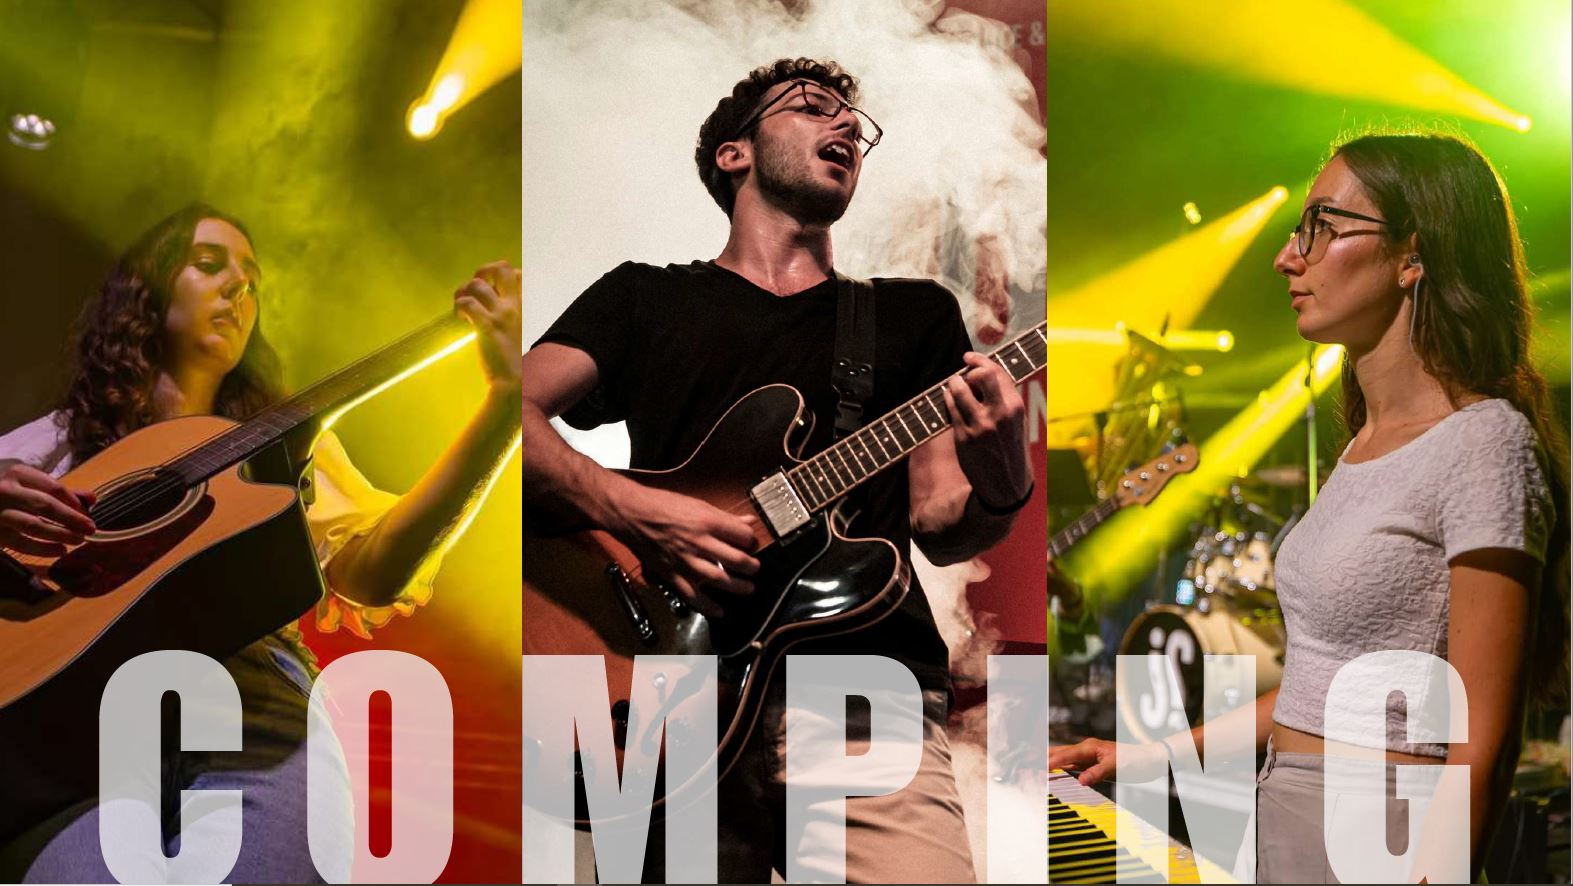
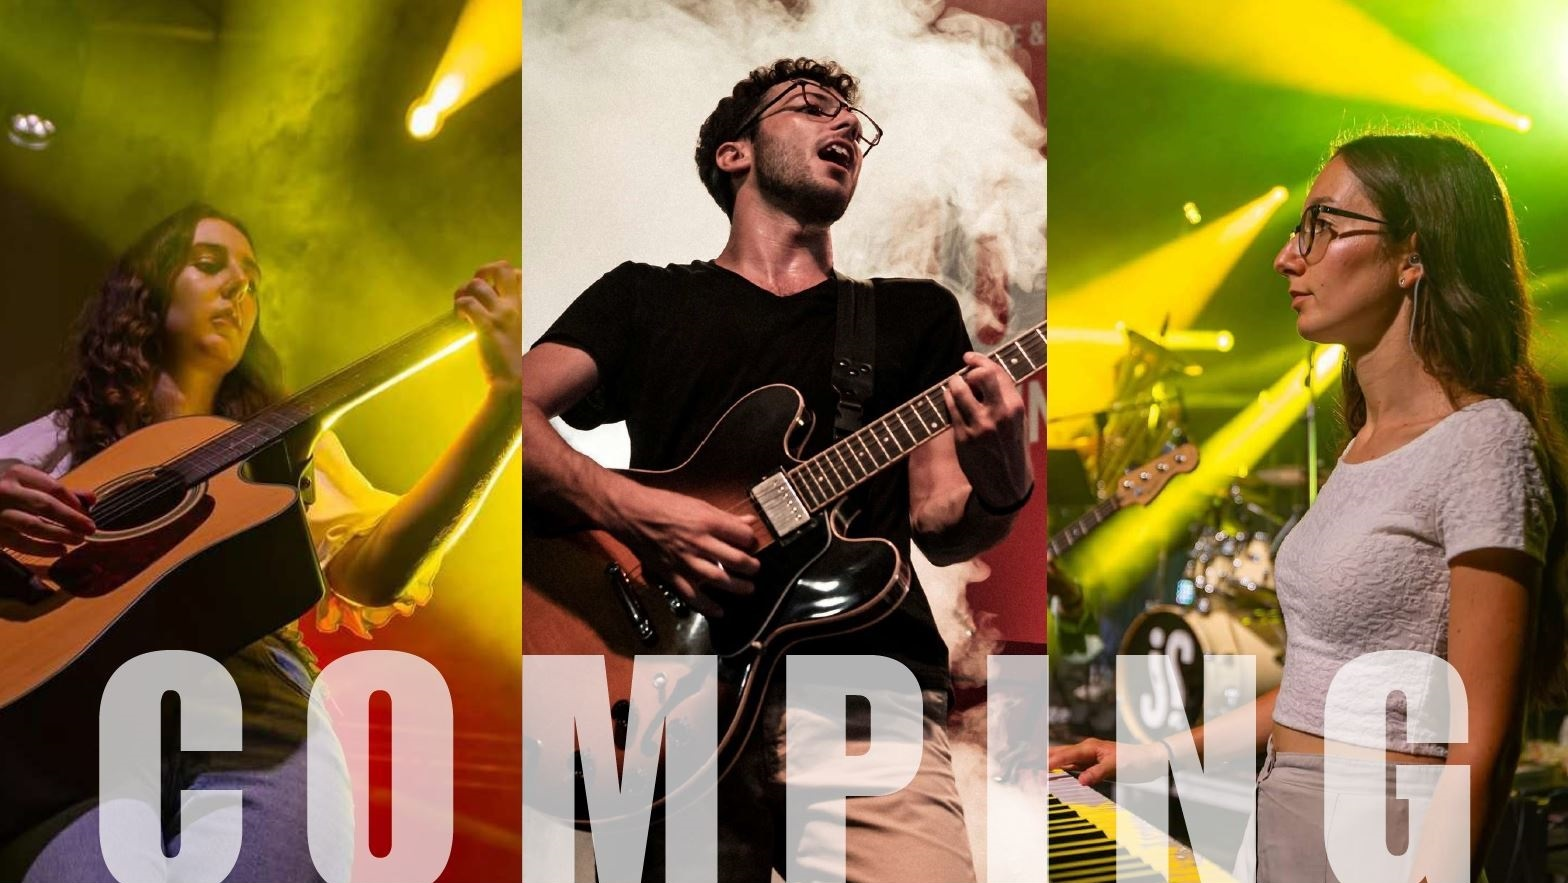
Updates

diff --git a/index.html b/index.html
@@ -1,6 +1,8 @@
 <!DOCTYPE html>
 <html lang="en">
 <head>
+  <link href="https://fonts.googleapis.com/css2?family=Geom&display=swap" rel="stylesheet">
+      <link href="https://fonts.googleapis.com/css2?family=Inter:wght@400;700&display=swap" rel="stylesheet">
   <meta charset="UTF-8">
   <meta name="viewport" content="width=device-width, initial-scale=1.0">
   <title>The Strangers </title>
@@ -28,48 +30,48 @@
  
 <section>
   <h1>The Strangers – Official Website</h1>
+  <p><i>Eh si.. Siamo una band di 17 persone!</i></p>
 
 
   <!-- Image Slider -->
-  <div class="image-slider">
+<div class="image-slider">
     <button class="img-btn prev">&#10094;</button>
 
     <div class="img-track">
-      <img src="img/slider/IMG1.jpg" alt="Live show">
-      <img src="img/slider/IMG2.jpg" alt="Live show">
-      <img src="img/slider/IMG3.jpg" alt="Live show">
-      <img src="img/slider/IMG4.5.jpeg" alt="Live show">
-      <img src="img/slider/IMG4.jpeg" alt="Live show">
-      <img src="img/slider/IMG5.jpeg" alt="Live show">
-      <img src="img/slider/IMG6.jpg" alt="Live show">
-      <img src="img/slider/IMG7.jpeg" alt="Live show">
-      <img src="img/slider/IMG8.JPEG" alt="Live show">
-      <img src="img/slider/IMG9.5.jpeg" alt="Live show">
-      <img src="img/slider/IMG9.jpg" alt="Live show">
-      <img src="img/slider/IMG10.jpeg" alt="Live show">
-      <img src="img/slider/IMG11.jpg" alt="Live show">
-      <img src="img/slider/IMG12.jpeg" alt="Live show">
-      <img src="img/slider/IMG13.jpg" alt="Live show">
-      <img src="img/slider/IMG15.jpg" alt="Live show">
-      <img src="img/slider/IMG16.JPEG" alt="Live show">
-      <img src="img/slider/IMG17.jpeg" alt="Live show">
-      <img src="img/slider/IMG18.jpeg" alt="Live show">
-      <img src="img/slider/IMG19.JPEG" alt="Live show">
-      <img src="img/slider/IMG20.jpg" alt="Live show">
-      <img src="img/slider/IMG21.JPEG" alt="Live show">
-      <img src="img/slider/IMG22.JPEG" alt="Live show">
-      <img src="img/slider/IMG23.jpeg" alt="Live show">
-      <img src="img/slider/IMG24.jpg" alt="Live show">
-      <img src="img/slider/IMG26.JPEG" alt="Live show">
+        <div class="slide"><img src="img/slider/IMG1.jpg" alt="Live show"></div>
+        <div class="slide"><img src="img/slider/IMG2.jpg" alt="Live show"></div>
+        <div class="slide"><img src="img/slider/IMG3.jpg" alt="Live show"></div>
+        <div class="slide"><img src="img/slider/IMG4.5.jpeg" alt="Live show"></div>
+        <div class="slide"><img src="img/slider/IMG4.jpeg" alt="Live show"></div>
+        <div class="slide"><img src="img/slider/IMG5.jpeg" alt="Live show"></div>
+        <div class="slide"><img src="img/slider/IMG6.jpg" alt="Live show"></div>
+        <div class="slide"><img src="img/slider/IMG7.jpeg" alt="Live show"></div>
+        <div class="slide"><img src="img/slider/IMG8.JPEG" alt="Live show"></div>
+        <div class="slide"><img src="img/slider/IMG9.5.jpeg" alt="Live show"></div>
+        <div class="slide"><img src="img/slider/IMG9.jpg" alt="Live show"></div>
+        <div class="slide"><img src="img/slider/IMG10.jpeg" alt="Live show"></div>
+        <div class="slide"><img src="img/slider/IMG11.jpg" alt="Live show"></div>
+        <div class="slide"><img src="img/slider/IMG12.jpeg" alt="Live show"></div>
+        <div class="slide"><img src="img/slider/IMG13.jpg" alt="Live show"></div>
+        <div class="slide"><img src="img/slider/IMG15.jpg" alt="Live show"></div>
+        <div class="slide"><img src="img/slider/IMG16.JPEG" alt="Live show"></div>
+        <div class="slide"><img src="img/slider/IMG17.jpeg" alt="Live show"></div>
+        <div class="slide"><img src="img/slider/IMG18.jpeg" alt="Live show"></div>
+        <div class="slide"><img src="img/slider/IMG19.JPEG" alt="Live show"></div>
+        <div class="slide"><img src="img/slider/IMG20.jpg" alt="Live show"></div>
+        <div class="slide"><img src="img/slider/IMG21.JPEG" alt="Live show"></div>
+        <div class="slide"><img src="img/slider/IMG22.JPEG" alt="Live show"></div>
+        <div class="slide"><img src="img/slider/IMG23.jpeg" alt="Live show"></div>
+        <div class="slide"><img src="img/slider/IMG24.jpg" alt="Live show"></div>
+        <div class="slide"><img src="img/slider/IMG26.JPEG" alt="Live show"></div>
     </div>
 
     <button class="img-btn next">&#10095;</button>
-  </div>
-
+</div>
   
-  <p><i>Eh si.. Siamo una band di 17 persone!</i></p>
+
   <h2>VIVA!</h2>
-  <a href="music.html" class="cta-link">Listen Now</a>
+  <a href="music.html" class="cta-link"> LISTEN NOW</a>
 </section>
 
 

diff --git a/style.css b/style.css
@@ -1,17 +1,19 @@
 /* General Styles */
-/*  <link href="https://fonts.googleapis.com/css2?family=Montserrat:wght@400;700&display=swap" rel="stylesheet">*/
+
 body {
-    font-family:  'Arial', 'Montserrat', sans-serif;
-    margin: 0;
-    color: #e0e0e0;
-    background: linear-gradient(135deg, #0f0f0f, #1c1c2a);
-    scroll-behavior: smooth;
+  font-family: 'Inter', Arial, sans-serif;
+  margin: 0;
+  color: #e0e0e0;
+  background: linear-gradient(135deg, #0f0f0f, #1c1c2a);
+  scroll-behavior: smooth;
 }
 
 /* Headings */
 h1, h2 {
+    font-family: 'Geom', Arial, sans-serif;
     color: #ffdd57; /* accent color */
     margin-bottom: 20px;
+    text-shadow: 2px 2px 4px rgba(0, 0, 0, 0.6); /* shadow effect */
 }
 
 /* Paragraphs */
@@ -77,9 +79,9 @@ nav a:hover {
 
 /* Section Panels */
 section {
-    background: rgba(30,30,40,0.85);
+    background: rgba(30,30,40,0.85);   /*linear-gradient(0deg, #181818ff, #23232aff);*/
     margin: 20px auto;
-    border-radius: 12px;
+    border-radius: 5px;
     text-align: center;
     padding: 20px 20px;
     max-width: 1000px;
@@ -178,11 +180,12 @@ footer {
 }
 
 .overlay-text {
+    font-family: 'Geom', Arial, sans-serif;
     position: absolute;
     top: 50%;
     left: 50%;
     transform: translate(-50%, -50%);
-    color: #ffdd57;
+    color: linear-gradient(90deg, #ffdd57, #fae48eff);/* #ffdd57;*/
     font-weight: bold;
     text-shadow: 0 0 10px rgba(0,0,0,0.7);
     opacity: 0;
@@ -263,6 +266,8 @@ footer {
     color: #fff;
     transition: transform 0.2s, box-shadow 0.2s;
     flex: 0 1 auto;          /* prevent flex stretching */
+    box-shadow: 0 2px 6px rgba(0,0,0,0.25);   /* subtle shadow behind button */
+    text-shadow: 1px 1px 2px rgba(0,0,0,0.5); /* subtle shadow on text */
 }
 
 .social-btn:hover {
@@ -355,6 +360,7 @@ footer {
 
 /* Title inside caption */
 .event-caption strong {
+    font-family: 'Inter', Arial, sans-serif;
     color: #ffdd57;
     font-size: 1em;
 }
@@ -471,27 +477,41 @@ footer {
 
 
 
-/* Image slider */
 .image-slider {
     position: relative;
+    width: 90%;
     max-width: 900px;
+    aspect-ratio: 4 / 3;        /* keeps 4:3 ratio */
     margin: 30px auto;
     overflow: hidden;
     border-radius: 16px;
+    background:  rgba(30,30,40,0.85);
 }
 
-/* Track */
+/* Track: flex container */
 .img-track {
     display: flex;
     transition: transform 0.4s ease;
+    height: 100%;
 }
 
-/* Images */
-.img-track img {
-    width: 100%;
-    flex-shrink: 0;
-    object-fit: cover;
-    height: 420px;
+/* Each slide: same size as container */
+.slide {
+    flex: 0 0 100%;             /* each slide takes full container width */
+    display: flex;
+    justify-content: center;     /* center image horizontally */
+    align-items: center;         /* center image vertically */
+    height: 100%;
+}
+
+/* Images: fit inside slide */
+.slide img {
+    max-width: 100%;             /* horizontal images fill width */
+    max-height: 100%;            /* vertical images fill height */
+    width: auto;
+    height: auto;
+    object-fit: contain;         /* ensures full image is visible */
+    display: block;
 }
 
 /* Arrows */
@@ -516,6 +536,18 @@ footer {
     background: rgba(0,0,0,0.85);
 }
 
+/* Mobile adjustments */
+@media (max-width: 600px) {
+    .image-slider {
+        width: 95%;
+    }
+    .img-btn {
+        font-size: 1.5rem;
+        padding: 4px 8px;
+    }
+}
+
+
 /* CTA link */
 .cta-link {
     display: inline-block;
@@ -523,4 +555,11 @@ footer {
     color: #ffdd57;
     font-weight: bold;
     text-decoration: none;
+}
+
+
+.cta-link img {
+    max-width: 100%;     /* image will not exceed container width */
+    height: auto;        /* keep aspect ratio */
+    display: block;      /* remove small bottom spacing */
 }

diff --git a/music.html b/music.html
@@ -1,6 +1,8 @@
 <!DOCTYPE html>
 <html lang="en">
 <head>
+  <link href="https://fonts.googleapis.com/css2?family=Geom&display=swap" rel="stylesheet">
+      <link href="https://fonts.googleapis.com/css2?family=Inter:wght@400;700&display=swap" rel="stylesheet">
   <meta charset="UTF-8">
   <meta name="viewport" content="width=device-width, initial-scale=1.0">
   <title>Music - The Strangers</title>
@@ -146,8 +148,8 @@ referrerpolicy="strict-origin-when-cross-origin" allowfullscreen></iframe>
         <div class="event-card">
       <img src="img/loc/Locandina12.JPEG" alt="Private Event">
       <p class="event-caption">
-        <strong>Stagione Matrimoni 2024</strong><br>
-       10/05/2024
+        <strong>Stagione Matrimoni</strong><br>
+       2022 - 2024
       </p>
     </div>
     

diff --git a/about_us.html b/about_us.html
@@ -1,6 +1,8 @@
 <!DOCTYPE html>
 <html lang="en">
 <head>
+  <link href="https://fonts.googleapis.com/css2?family=Geom&display=swap" rel="stylesheet">
+    <link href="https://fonts.googleapis.com/css2?family=Inter:wght@400;700&display=swap" rel="stylesheet">
   <meta charset="UTF-8">
   <meta name="viewport" content="width=device-width, initial-scale=1.0">
   <title>About Us - The Strangers</title>
@@ -23,6 +25,8 @@
   <div class="header-overlay">
   </div>
 </header>
+
+
   <!-- About Section -->
   <section>
     <h1>About Us</h1>

diff --git a/contact.html b/contact.html
@@ -21,6 +21,8 @@
   </nav>
 
 <header class="page-header">
+  <link href="https://fonts.googleapis.com/css2?family=Geom&display=swap" rel="stylesheet">
+  <link href="https://fonts.googleapis.com/css2?family=Inter:wght@400;700&display=swap" rel="stylesheet">
   <img src="img/contancts2.jpg" alt="The Strangers live">
   <div class="header-overlay">
   </div>
